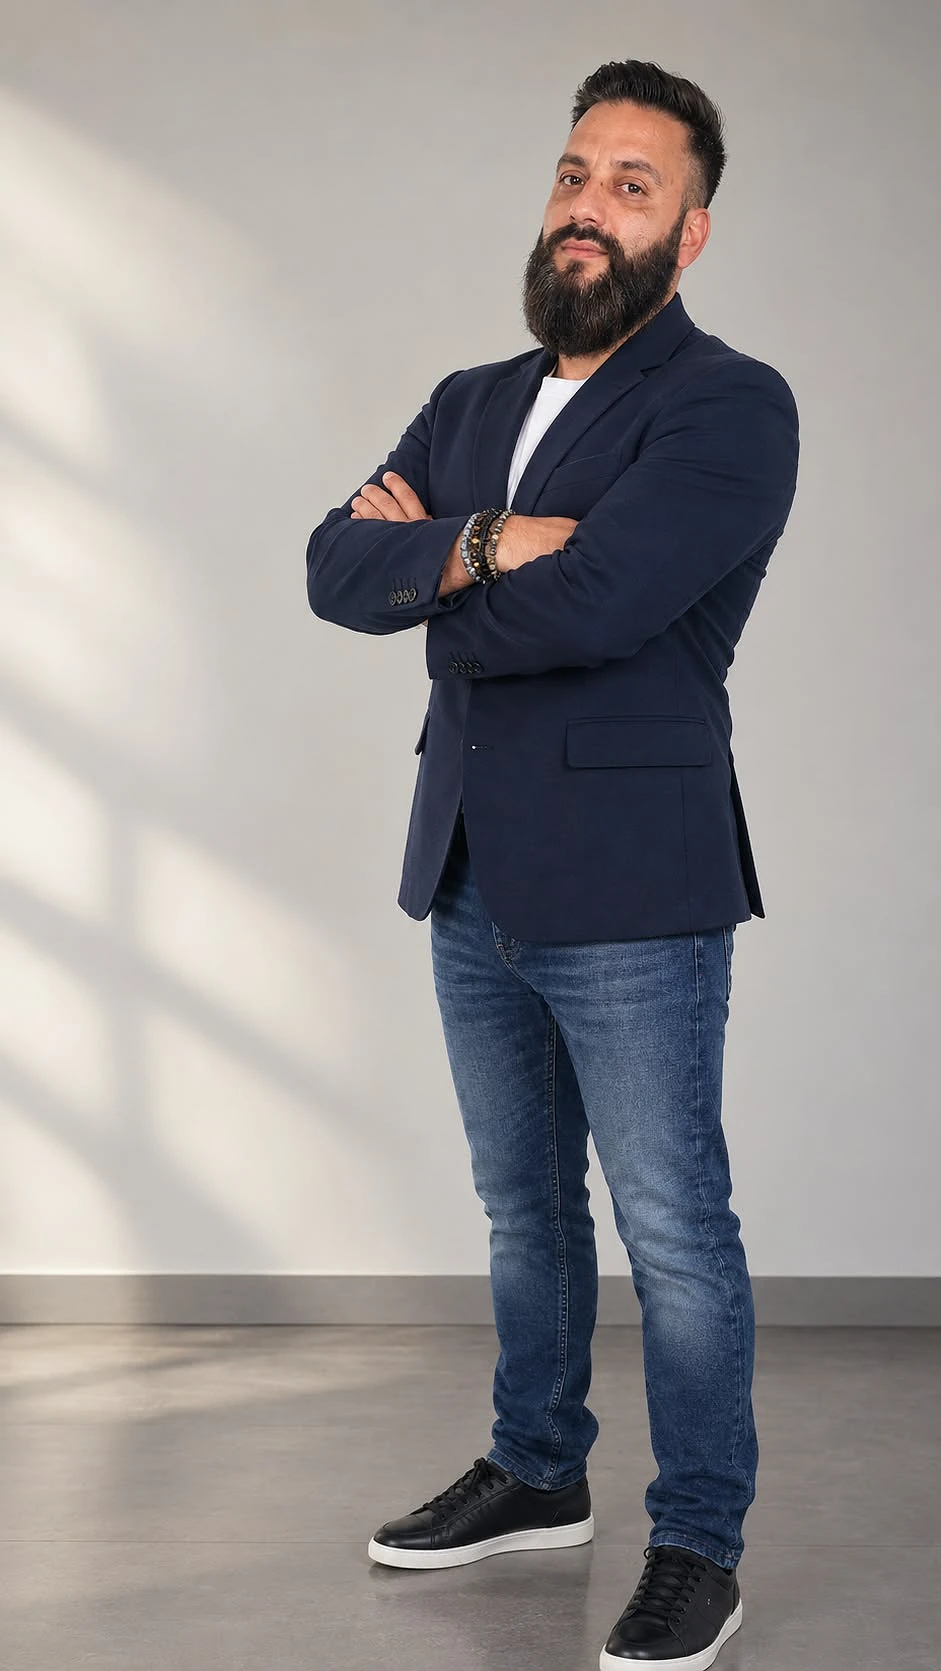
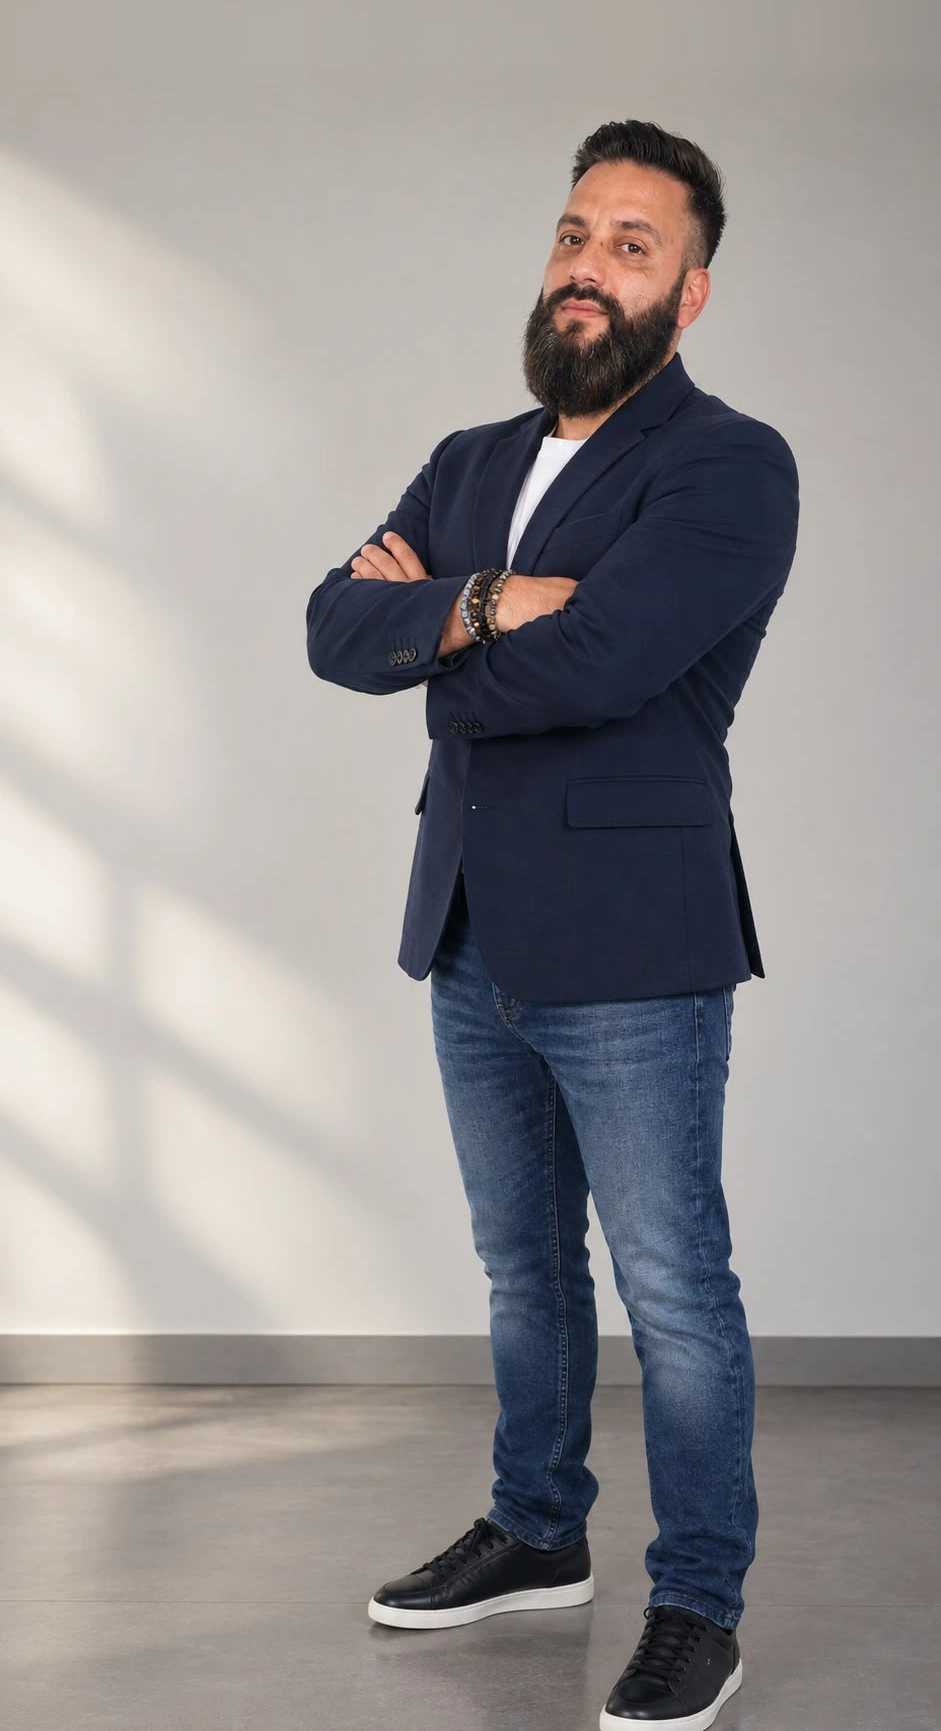
Portada: foto sin enfoque ni compresión fuerte, aire bajo la cabecera y versión apaisada también en tableta

diff --git a/index.html b/index.html
@@ -13,7 +13,7 @@
 <meta property="og:url" content="https://reformasfonseca.com/">
 <meta property="og:image" content="https://reformasfonseca.com/assets/img/hero-jesus.jpg">
 <meta property="og:image:width" content="1600">
-<meta property="og:image:height" content="990">
+<meta property="og:image:height" content="996">
 <meta name="twitter:card" content="summary_large_image">
 <link rel="canonical" href="https://reformasfonseca.com/">
 <meta property="og:locale" content="es_ES">
@@ -23,9 +23,9 @@
 <link rel="preload" as="font" type="font/woff2" href="assets/fonts/jost.woff2" crossorigin>
 <link rel="preload" as="font" type="font/woff2" href="assets/fonts/noto-serif-display.woff2" crossorigin>
 
-<link rel="preload" as="image" href="assets/img/hero-jesus-movil.webp" type="image/webp" fetchpriority="high" media="(max-width: 959px)">
-<link rel="preload" as="image" imagesrcset="assets/img/hero-jesus-1600.webp 1600w, assets/img/hero-jesus-2970.webp 2970w" imagesizes="100vw" type="image/webp" fetchpriority="high" media="(min-width: 960px)">
-<link rel="stylesheet" href="styles.css?v=20261029">
+<link rel="preload" as="image" href="assets/img/hero-jesus-movil.webp" type="image/webp" fetchpriority="high" media="(max-width: 959px) and (max-aspect-ratio: 4/5)">
+<link rel="preload" as="image" imagesrcset="assets/img/hero-jesus-2400.webp 2400w, assets/img/hero-jesus-3440.webp 3440w" imagesizes="100vw" type="image/webp" fetchpriority="high" media="(min-width: 960px), (min-aspect-ratio: 4/5)">
+<link rel="stylesheet" href="styles.css?v=20261030">
 
 <link rel="apple-touch-icon" href="apple-touch-icon.png">
 <!-- La R y la S cambian de color con el tema del navegador: oscuras sobre
@@ -391,8 +391,8 @@
          pared prolongada a la izquierda para que el titular se lea encima; en
          móvil, el retrato vertical tal cual. -->
     <picture>
-      <source media="(max-width: 959px)" srcset="assets/img/hero-jesus-movil.webp" type="image/webp" width="941" height="1671">
-      <img class="hero__retrato" src="assets/img/hero-jesus-1600.webp" srcset="assets/img/hero-jesus-1600.webp 1600w, assets/img/hero-jesus-2970.webp 2970w" sizes="100vw" alt="Jesús Fonseca, responsable de Reformas F.S Fonseca" width="2970" height="1838" fetchpriority="high" loading="eager" decoding="async">
+      <source media="(max-width: 959px) and (max-aspect-ratio: 4/5)" srcset="assets/img/hero-jesus-movil.webp" type="image/webp" width="941" height="1731">
+      <img class="hero__retrato" src="assets/img/hero-jesus-2400.webp" srcset="assets/img/hero-jesus-2400.webp 2400w, assets/img/hero-jesus-3440.webp 3440w" sizes="100vw" alt="Jesús Fonseca, responsable de Reformas F.S Fonseca" width="3440" height="2141" fetchpriority="high" loading="eager" decoding="async">
     </picture>
   </div>
 
@@ -998,7 +998,7 @@
   <svg viewBox="0 0 24 24" aria-hidden="true"><path d="M12 2a10 10 0 00-8.6 15L2 22l5.2-1.4A10 10 0 1012 2zm0 18a8 8 0 01-4.1-1.1l-.3-.2-3 .8.8-2.9-.2-.3A8 8 0 1112 20zm4.4-5.8c-.2-.1-1.4-.7-1.6-.8s-.4-.1-.6.1-.6.8-.8 1-.3.2-.6.1a6.6 6.6 0 01-3.2-2.8c-.2-.4.2-.4.6-1.2.1-.2 0-.4 0-.5l-.8-1.8c-.2-.5-.4-.4-.6-.4h-.5a1 1 0 00-.7.3A2.9 2.9 0 006 8.4c0 1.7 1.2 3.3 1.4 3.5a11 11 0 004.2 3.7c1.5.6 2.1.7 2.9.5.5-.1 1.4-.6 1.6-1.2s.2-1 .1-1.1-.2-.2-.5-.3z"/></svg>
 </a>
 
-<script defer src="lib/manifest.js?v=20261029"></script>
-<script defer src="main.js?v=20261029"></script>
+<script defer src="lib/manifest.js?v=20261030"></script>
+<script defer src="main.js?v=20261030"></script>
 </body>
 </html>

diff --git a/styles.css b/styles.css
@@ -1472,7 +1472,9 @@ mark.falta { background: #e08a6f; color: #111a24; padding: 0 .3em; font-weight: 
    Móvil y tableta: retrato vertical que empieza bajo la cabecera, para que no
    le tape la cara, oscurecido por abajo, donde va el texto. */
 .hero__plate picture { display: block; width: 100%; height: 100%; }
-.hero__plate img.hero__retrato { filter: none; object-position: 70% 0; }
+/* En pantallas muy apaisadas sobra foto por arriba y por abajo: se recorta
+   un poco más de suelo que de pared, para no pegar la cabeza a la cabecera. */
+.hero__plate img.hero__retrato { filter: none; object-position: 70% 40%; }
 .hero__plate::after {
   background:
     linear-gradient(90deg, rgba(10,17,25,.92) 0%, rgba(10,17,25,.82) 32%, rgba(10,17,25,.38) 58%, rgba(10,17,25,.1) 78%, rgba(10,17,25,.18) 100%),
@@ -1481,7 +1483,7 @@ mark.falta { background: #e08a6f; color: #111a24; padding: 0 .3em; font-weight: 
 }
 @media (max-width: 959px) {
   .hero__plate { top: calc(var(--hdr-h) + var(--hdr-top)); }
-  .hero__plate img.hero__retrato { object-position: 50% 0; }
+  .hero__plate img.hero__retrato { object-position: 60% 30%; }
   .hero__plate::after {
     background:
       linear-gradient(0deg, rgba(10,17,25,.96) 0%, rgba(10,17,25,.84) 38%, rgba(10,17,25,.3) 64%, rgba(10,17,25,.14) 100%),
@@ -1491,4 +1493,12 @@ mark.falta { background: #e08a6f; color: #111a24; padding: 0 .3em; font-weight: 
 @media (min-width: 960px) {
   /* Un punto menos de titular para que la primera línea no roce el brazo */
   .hero__t { font-size: clamp(2.15rem, 3.3vw, 3.1rem); }
+}
+@media (max-width: 959px) and (max-aspect-ratio: 4/5) {
+  .hero__plate img.hero__retrato { object-position: 50% 0; }
+}
+/* Móvil de pie: el texto baja un poco para dejar la cara de Jesús despejada
+   entre la cabecera y la etiqueta de zona. */
+@media (max-width: 959px) and (max-aspect-ratio: 4/5) {
+  .hero__in { padding-bottom: 5.2rem; }
 }

diff --git a/404.html b/404.html
@@ -8,7 +8,7 @@
 <meta name="theme-color" content="#0e161f">
 <!-- Rutas absolutas: esta página puede servirse desde cualquier dirección. -->
 <link rel="preload" as="font" type="font/woff2" href="/assets/fonts/noto-serif-display.woff2" crossorigin>
-<link rel="stylesheet" href="/styles.css?v=20261029">
+<link rel="stylesheet" href="/styles.css?v=20261030">
 <link rel="icon" href="/assets/favicon.svg" type="image/svg+xml">
 <link rel="apple-touch-icon" href="/apple-touch-icon.png">
 </head>

diff --git a/aviso-legal.html b/aviso-legal.html
@@ -7,7 +7,7 @@
 <meta name="robots" content="noindex, follow">
 <link rel="canonical" href="https://reformasfonseca.com/aviso-legal.html">
 <meta name="theme-color" content="#0e161f">
-<link rel="stylesheet" href="styles.css?v=20261029">
+<link rel="stylesheet" href="styles.css?v=20261030">
 <link rel="icon" href="assets/favicon.svg" type="image/svg+xml">
 <link rel="apple-touch-icon" href="apple-touch-icon.png">
 </head>

diff --git a/privacidad.html b/privacidad.html
@@ -7,7 +7,7 @@
 <meta name="robots" content="noindex, follow">
 <link rel="canonical" href="https://reformasfonseca.com/privacidad.html">
 <meta name="theme-color" content="#0e161f">
-<link rel="stylesheet" href="styles.css?v=20261029">
+<link rel="stylesheet" href="styles.css?v=20261030">
 <link rel="icon" href="assets/favicon.svg" type="image/svg+xml">
 <link rel="apple-touch-icon" href="apple-touch-icon.png">
 </head>
